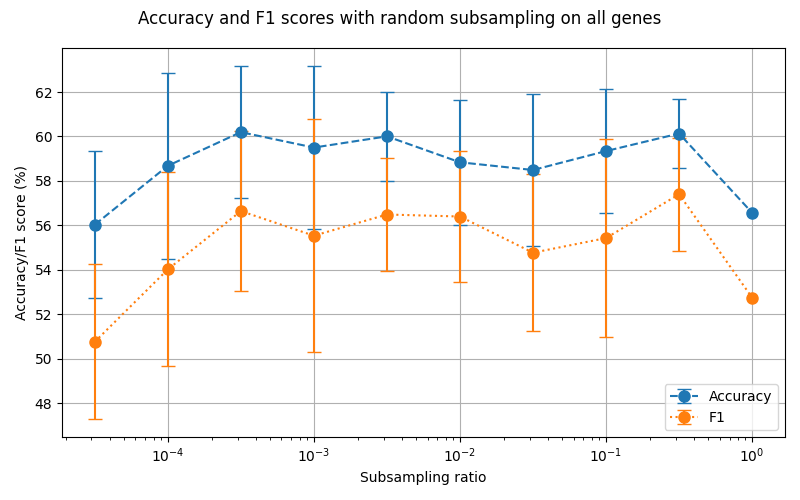
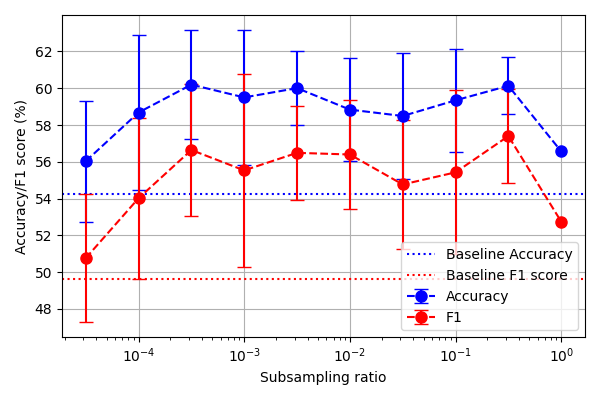
better pictures

Changed region(s): [[0.0, 0.0, 0.99, 0.99], [0.93, 0.03, 0.96, 0.06]]

diff --git a/tex/figures/plot.py b/tex/figures/plot.py
@@ -15,10 +15,12 @@ groups = [
 
 
 for group, suptitle, outfile in groups:
-    fig,ax = plt.subplots(1,len(group),figsize=(8*len(group)**0.7,4+len(group)), sharey=True, sharex=True, dpi=100)
+    fig,ax = plt.subplots(1,len(group),figsize=(6*len(group)**0.7,4), sharey=True, sharex=True, dpi=100)
     if len(group) == 1: ax = [ax]
-    fig.suptitle("Accuracy and F1 scores with random subsampling " + suptitle)
+    # fig.suptitle("Accuracy and F1 scores with random subsampling " + suptitle)
     for i,(datapath,title,vals) in enumerate(group):
+        ax[i].axhline(54.24, color="b", ls=":", label="Baseline Accuracy")
+        ax[i].axhline(200/((100/54.24) + (100/45.76)), color="r", ls=":", label="Baseline F1 score")
         ax[i].set_xscale("log")
         if title is not None:
             ax[i].set_title(title.format(**vals))
@@ -32,8 +34,8 @@ for group, suptitle, outfile in groups:
 
         # plt.semilogx(vals.index,vals.accuracy,"--",marker="",label="Accuracy")
         # plt.semilogx(vals.index,vals.f1,":",marker="",label="F1")
-        ax[i].errorbar(vals.index,vals.accuracy,yerr=errs.accuracy,ls="--",marker="o",label="Accuracy", markersize=8, capsize=5)
-        ax[i].errorbar(vals.index,vals.f1,yerr=errs.f1,ls=":",marker="o",label="F1", markersize=8, capsize=5)
+        ax[i].errorbar(vals.index,vals.accuracy,yerr=errs.accuracy,color="b",ls="--",marker="o",label="Accuracy", markersize=8, capsize=5)
+        ax[i].errorbar(vals.index,vals.f1,yerr=errs.f1,color="r",ls="--",marker="o",label="F1", markersize=8, capsize=5)
         ax[i].grid()
         ax[i].legend()
 
